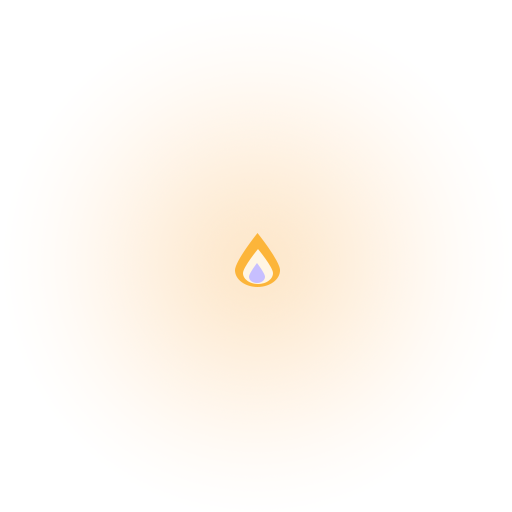
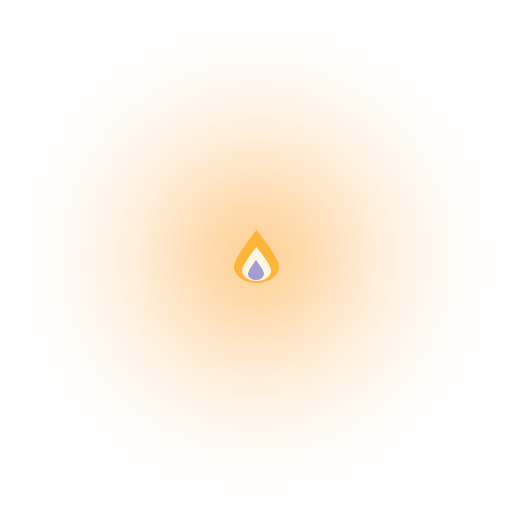
Better lighting!

Changed region(s): [[0.3125, 0.3125, 0.6875, 0.6562]]

diff --git a/app/js/levels/levels.js b/app/js/levels/levels.js
@@ -38,14 +38,14 @@ var TwoMovesToExit = {
 		"~~~~~~~~~~~~~~~~" +
 		"wwwwwwwwwwwwwwww" +
 		"w              w" +
+		"w *          * w" +
 		"w              w" +
-		"w       *      w" +
 		"w       w      w" +
-		"w  @    w    % w" +
+		"w  @    w   %  w" +
 		"w       w      w" +
-		"w       *      w" +
 		"w              w" +
 		"w              w" +
+		"w *          * w" +
 		"w              w" +
 		"wwwwwwwwwwwwwwww" +
 		"~~~~~~~~~~~~~~~~" +

diff --git a/app/js/entities/actor.js b/app/js/entities/actor.js
@@ -71,8 +71,8 @@ Actor.prototype.create = function() {
 		this.light = this.game.add.sprite(0,0, "light_circle_orange");
 		// this.light.scale.set(this.actor_type.sprite_scale);
 		// this.light.tint = this.actor_type.sprite_color;
-		this.light.blendMode = PIXI.blendModes.ADD;
-		this.light.alpha = .2;
+		this.light.blendMode = 3;
+		this.light.alpha = .4;
 		this.light.scale.set(.67);
 		
 		this.light.anchor.setTo(.5, .5);

diff --git a/app/js/data/prop_details.js b/app/js/data/prop_details.js
@@ -35,13 +35,14 @@ var PROP_TYPES = {
 		}
 	},
 	"flame": {
-		sprite_color: 0x8b754b,
+		sprite_color: 0xFFFFFF,
+		alpha: .5,
 		blocks: true,
 		atlas: "flame",
 		sprite_name: null,
 		scale: .75,
 		// blendMode: PIXI.blendModes.ADD,
-		blendMode: 3,
+		blendMode: 1,
 		onCollide: function(actor, prop, board){
 			// console.log("collide w/ door", actor, prop);
 			actor.TakeDamage(1);
